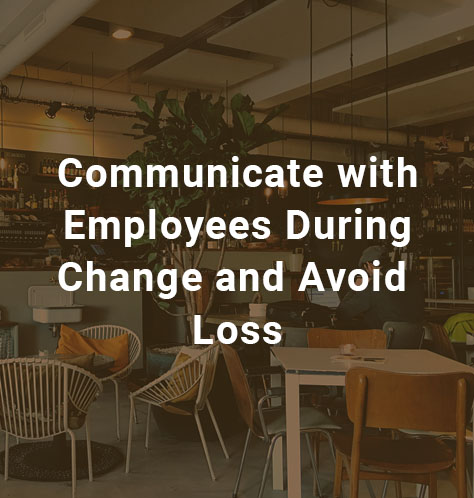
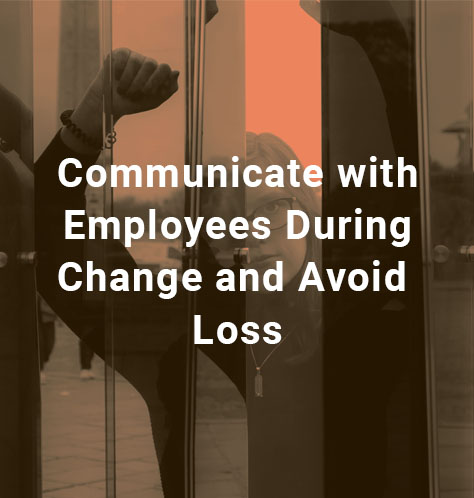
updating the img cards on the insight slider as well as the full width img on the blog pages

diff --git a/socks-and-sandals-government-relations-and-a-view-from-the-inside.html b/socks-and-sandals-government-relations-and-a-view-from-the-inside.html
@@ -10,9 +10,9 @@
     <meta charset="utf-8">
     <meta https-equiv="X-UA-Compatible" content="IE=edge">
     <meta https-equiv="Content-Security-Policy" content="upgrade-insecure-requests">
-    <title>FocusGRP - New Company Built on Experience & Passion</title>
+    <title>FocusGRP - Communicate with Employees During Change and Avoid Loss</title>
     <!-- Meta description -->
-    <meta name="description" content="Launching FocusGRP allows us to leverage our expertise and our passion for client success.  While we’ve been at it for years, a fresh start and the ability to forge our own future is pretty inspiring. We’re stoked!">
+    <meta name="description" content="We can’t overstate the need for a robust staff communications protocol during times of transition. Employees aren’t in peak productivity mode when they’re working in an information vacuum in an uncertain climate.">
     <meta name="viewport" content="width=device-width, initial-scale=1">
     <!-- Meta robot tags -->
     <meta name="robots" content="index" />
@@ -84,10 +84,10 @@
                 </a>
             </div>
         </div>
-        <div class="fullwidthimgjan">
+        <div class="fullwidthimgfeb2">
             <div class="fullwidthimgtextfeb">
                 <div>
-                    <h1>New Company Built on Experience & Passion</h1>
+                    <h1>Communicate with Employees During Change and Avoid Loss</h1>
                 </div>
                 <div class="redbox"></div>
                 <div class="landingtext">
@@ -100,7 +100,7 @@
                     <br/>
                     <br/>
                     <p>
-                        January 12, 2020
+                        February 12, 2020
                     </p>
                 </div>
             </div>
@@ -160,7 +160,20 @@
                     </div>
                 </div>
                 <div class="subscribebox">
-
+                    <form role="form" id="newsletter" data-toggle="validator" class="shake">
+                        <div>
+                          <h2>Subscribe to our Newsletter</h2>
+                        </div>
+                        <div>
+                          <input type="text" id="fullname" placeholder="Name" name="name" required>
+                          <input type="text" id="nlemail" placeholder="Email address" name="mail" required>
+                        </div>
+                        <div>
+                            <button type="submit" id="newsletter-submit" class="btn btn-success btn-lg pull-right ">Submit</button>
+                            <div id="newsletterSubmit" class="h3 text-center hidden"></div>
+                            <div class="clearfix"></div>
+                        </div>
+                      </form>
                 </div>
             </div>
         </div>
@@ -232,6 +245,9 @@
     <!-- For the contact form -->
     <script type="text/javascript" src="js/validator.min.js"></script>
     <script type="text/javascript" src="js/form-scripts.js"></script>
+    <!-- For the news letter subscription -->
+    <script type="text/javascript" src="js/nlvalidator.min.js"></script>
+    <script type="text/javascript" src="js/nlform-scripts.js"></script>
     <!-- Written Script -->
     <script type="text/javascript" src="js/scripts.js"></script>
     <!-- Google stuff -->

diff --git a/index.html b/index.html
@@ -243,7 +243,7 @@
     <div class="insights">
         <div class="leftinsights inline-photo-leftright show-on-scroll">
             <div>
-                <h1>Insights</h1>
+                <h1 id="insights">Insights</h1>
             </div>
             <div class="redbox"></div>
             <div>
@@ -256,11 +256,12 @@
             </div>
         </div>
         <div class="insightslider">
-            <div id="insights" class="rightinsightsmobile inline-photo-rightleft show-on-scroll">
+            <div class="rightinsightsmobile inline-photo-rightleft show-on-scroll">
                 <div class="carousel" data-flickity='{ "wrapAround": true }'>
+                    <a class="carousel-cell feb2-insight-card" href="./socks-and-sandals-government-relations-and-a-view-from-the-inside.html"></a>
                     <a class="carousel-cell feb-insight-card" href="./communicate-with-employees-during-change-and-avoid-loss.html"></a>
                     <a class="carousel-cell jan-insight-card" href="./new-company-built-on-experience-and-passion.html"></a>
-                    <div class="carousel-cell"></div>
+                    <!-- <div class="carousel-cell"></div> -->
                 </div>
             </div>
         </div>

diff --git a/css/style.css b/css/style.css
@@ -682,6 +682,11 @@ a {
     counter-increment: carousel-cell;
 }
 
+.feb2-insight-card {
+    background-image: url(../insights/mobile-cards/feb2-insight-800px.jpg);
+    background-position: center;
+}
+
 .feb-insight-card {
     background-image: url(../insights/mobile-cards/feb-insight-800px.jpg);
     background-position: center;
@@ -1056,6 +1061,30 @@ textarea {
 /* End of Footer Styles */
 
 /* Start of the main content on the side pages */
+.fullwidthimgjan {
+    width: 100vw;
+    height: 100vh;
+    float: left;
+    background-image: url(../insights/jan-big-pic.jpg);
+    background-position: center center;
+    background-repeat: no-repeat;
+    background-attachment: fixed;
+    background-size: cover;
+    background-color: #ffffff;
+}
+
+.fullwidthimgfeb2 {
+    width: 100vw;
+    height: 100vh;
+    float: left;
+    background-image: url(../insights/feb2-big-pic.jpg);
+    background-position: center center;
+    background-repeat: no-repeat;
+    background-attachment: fixed;
+    background-size: cover;
+    background-color: #ffffff;
+}
+
 .fullwidthimgfeb {
     width: 100vw;
     height: 100vh;
